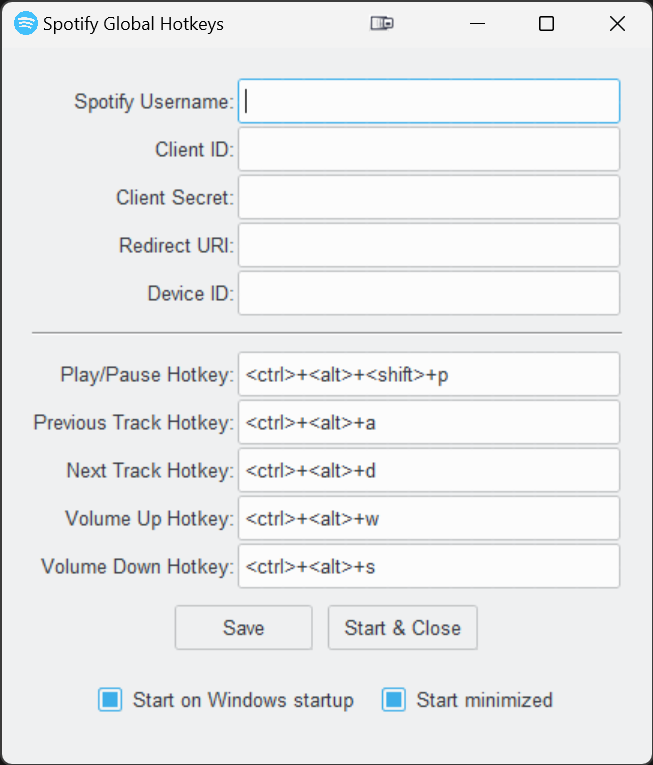
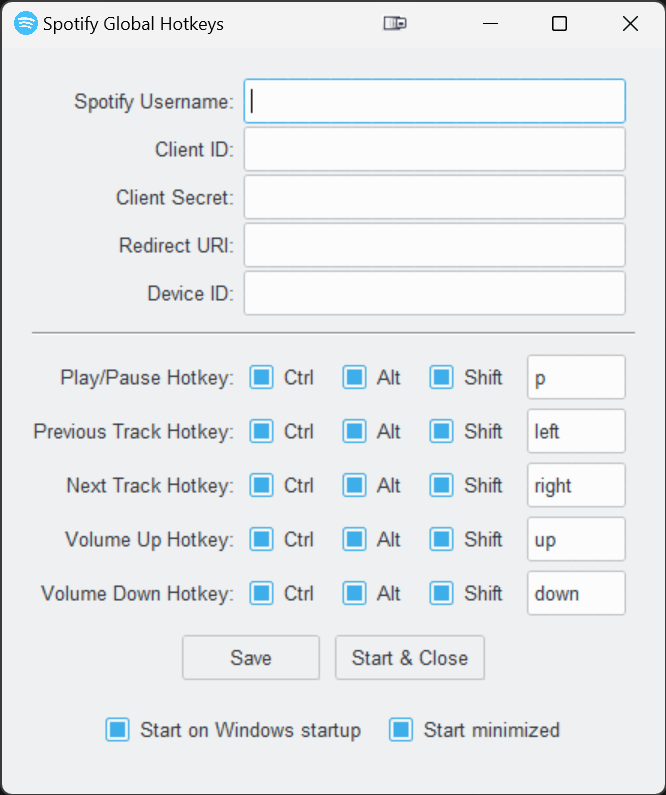
Switched from pynput to global-hotkeys module

diff --git a/SpotifyGlobalHotkeys/view.py b/SpotifyGlobalHotkeys/view.py
@@ -37,26 +37,6 @@ class SpotifyGlobalHotkeysView(object):
         self.SettingsWindow()
 
     def SettingsWindow(self):
-        def limit_entry_length(var, maxlen):
-            var.trace("w", lambda *args: enforce_max_length(var, maxlen))
-
-        def enforce_max_length(var, maxlen):
-            value = var.get()
-            if len(value) > maxlen:
-                var.set(value[:maxlen])
-                
-        def validate_alpha(char):
-            return char.isalpha() or char == ""
-
-        def limit_alpha_input(var):
-            var.trace("w", lambda *args: enforce_alpha_input(var))
-
-        def enforce_alpha_input(var):
-            value = var.get()
-            filtered_value = ''.join(filter(validate_alpha, value))
-            if value != filtered_value:
-                var.set(filtered_value)
-                
         def set_input_fields():
             self.app.SetStartup(self.app.startup_var.get())
             self.app.username = username_entry.get()
@@ -74,11 +54,11 @@ class SpotifyGlobalHotkeysView(object):
         def update_hotkey_entry(entry, modifiers_frame, ctrl_var, alt_var, shift_var):
             modifiers = []
             if ctrl_var.get():
-                modifiers.append('<ctrl>')
+                modifiers.append('control')
             if alt_var.get():
-                modifiers.append('<alt>')
+                modifiers.append('alt')
             if shift_var.get():
-                modifiers.append('<shift>')
+                modifiers.append('shift')
             key = entry.get().strip().lower()
             hotkey = '+'.join(modifiers + [key])
             return hotkey
@@ -107,8 +87,11 @@ class SpotifyGlobalHotkeysView(object):
                 return
             else:
                 root.destroy()
+                self.app.StopHotkeyListener()
                 if not self.menu.visible:
                     self.run()
+                else:
+                    self.app.StartHotkeyListener()
             
         # Create the GUI
         root = ThemedTk(theme='breeze')
@@ -153,7 +136,7 @@ class SpotifyGlobalHotkeysView(object):
         self.app.minimize_var = tk.BooleanVar()
         
         # Hotkey Area
-        width = 2
+        width = 8
         padding_x = 5
         padding_y = 2
         
@@ -221,21 +204,6 @@ class SpotifyGlobalHotkeysView(object):
         alt_volume_down_checkbox.grid(row=0, column=1, padx=padding_x, pady=padding_y)
         shift_volume_down_checkbox.grid(row=0, column=2, padx=padding_x, pady=padding_y)
         volume_down_entry.grid(row=0, column=4, padx=padding_x, pady=padding_y)
-        
-        # Limit entry lengths
-        max_length = 1
-        limit_entry_length(play_pause_var, max_length)
-        limit_entry_length(prev_track_var, max_length)
-        limit_entry_length(next_track_var, max_length)
-        limit_entry_length(volume_up_var, max_length)
-        limit_entry_length(volume_down_var, max_length)
-        
-        # Limit to alphas
-        limit_alpha_input(play_pause_var)
-        limit_alpha_input(prev_track_var)
-        limit_alpha_input(next_track_var)
-        limit_alpha_input(volume_up_var)
-        limit_alpha_input(volume_down_var)
 
         # Autofill entries
         def autofill_entry(entry, value, hotkey=False):
@@ -251,15 +219,15 @@ class SpotifyGlobalHotkeysView(object):
             modifiers = {'ctrl': False, 'alt': False, 'shift': False}
             key = ''
 
-            if '<ctrl>' in hotkey_str:
+            if 'control' in hotkey_str:
                 modifiers['ctrl'] = True
-                hotkey_str = hotkey_str.replace('<ctrl>', '')
-            if '<alt>' in hotkey_str:
+                hotkey_str = hotkey_str.replace('control', '')
+            if 'alt' in hotkey_str:
                 modifiers['alt'] = True
-                hotkey_str = hotkey_str.replace('<alt>', '')
-            if '<shift>' in hotkey_str:
+                hotkey_str = hotkey_str.replace('alt', '')
+            if 'shift' in hotkey_str:
                 modifiers['shift'] = True
-                hotkey_str = hotkey_str.replace('<shift>', '')
+                hotkey_str = hotkey_str.replace('shift', '')
             if '+' in hotkey_str:
                 hotkey_str = hotkey_str.replace('+', '')
 
@@ -270,7 +238,7 @@ class SpotifyGlobalHotkeysView(object):
         hotkey_entries = [play_pause_entry, prev_track_entry, next_track_entry, volume_up_entry, volume_down_entry]
         keys = ['username', 'client_id', 'client_secret', 'redirect_uri', 'device_id']  
         hotkey_keys = ['play/pause', 'prev_track', 'next_track', 'volume_up', 'volume_down']
-        hotkey_defaults = ['<ctrl>+<alt>+<shift>+p', '<ctrl>+<alt>+<shift>+a', '<ctrl>+<alt>+<shift>+d', '<ctrl>+<alt>+<shift>+w', '<ctrl>+<alt>+<shift>+s']
+        hotkey_defaults = ['control+alt+shift+p', 'control+alt+shift+left', 'control+alt+shift+right', 'control+alt+shift+up', 'control+alt+shift+down']
         
         ctrl_vars = [ctrl_play_pause_var, ctrl_prev_track_var, ctrl_next_track_var, ctrl_volume_up_var, ctrl_volume_down_var]
         alt_vars = [alt_play_pause_var, alt_prev_track_var, alt_next_track_var, alt_volume_up_var, alt_volume_down_var]
@@ -346,5 +314,5 @@ class SpotifyGlobalHotkeysView(object):
     
     def run(self):
         self.app.UpdateStartupRegistry()
-        self.app.HotkeyListener()
+        self.app.StartHotkeyListener()
         self.menu.run()

diff --git a/SpotifyGlobalHotkeys/app.py b/SpotifyGlobalHotkeys/app.py
@@ -11,7 +11,7 @@ import json.decoder
 import winreg as reg
 import tkinter.messagebox as messagebox
 from spotipy.oauth2 import SpotifyOAuth
-from pynput import keyboard
+from global_hotkeys import *
 
 class SpotifyGlobalHotkeysApp(object):
     def __init__(self):
@@ -258,26 +258,39 @@ class SpotifyGlobalHotkeysApp(object):
                     reg.DeleteValue(reg_key, app_name)
                 except FileNotFoundError:
                     pass
-    
-    def HotkeyListener(self):
-        print('Listening to hotkeys...')
-        
-        def with_cooldown(func):
-            last_called = [0]
-            def wrapper(*args, **kwargs):
-                if time.time() - last_called[0] > 0.3:  # 0.3 seconds cooldown
-                    func(*args, **kwargs)
-                    last_called[0] = time.time()
-            return wrapper
 
-        listener = keyboard.GlobalHotKeys({
-            self.hotkeys['play/pause']: with_cooldown(lambda: self.PlayPause()),
-            self.hotkeys['prev_track']: with_cooldown(lambda: self.PrevNext('previous')),
-            self.hotkeys['next_track']: with_cooldown(lambda: self.PrevNext('next')),
-            self.hotkeys['volume_up']: with_cooldown(lambda: self.AdjustVolume(5)),
-            self.hotkeys['volume_down']: with_cooldown(lambda: self.AdjustVolume(-5))
-        })
-        listener.start()
+    def StopHotkeyListener(self):
+        stop_checking_hotkeys()
+        clear_hotkeys()
+    
+    def StartHotkeyListener(self):
+        print('Listening to hotkeys...')
+
+        # Our keybinding event handlers.
+        def play_pause():
+            self.PlayPause()
+        def previous():
+            self.PrevNext('previous')
+        def next():
+            self.PrevNext('next')
+        def volume_up():
+            self.AdjustVolume(5)
+        def volume_down():
+            self.AdjustVolume(-5)
+
+        bindings = [
+            [self.hotkeys['play/pause'].split('+'), None, play_pause],
+            [self.hotkeys['prev_track'].split('+'), None, previous],
+            [self.hotkeys['next_track'].split('+'), None, next],
+            [self.hotkeys['volume_up'].split('+'), None, volume_up],
+            [self.hotkeys['volume_down'].split('+'), None, volume_down]
+        ]
+
+        # Register all of our keybindings
+        register_hotkeys(bindings)
+
+        # Finally, start listening for keypresses
+        start_checking_hotkeys()
             
     def SaveConfig(self):
         print('Saving config')

diff --git a/SpotifyGlobalHotkeys/main.py b/SpotifyGlobalHotkeys/main.py
@@ -37,7 +37,7 @@ if __name__ == '__main__':
             
             for key, default_value in [('username', ''), ('client_id', ''), ('client_secret', ''), ('redirect_uri', ''), ('device_id', '')]:
                 setattr(app, key, config.get(key, default_value))
-            for key, default_value in [('play/pause', '<ctrl>+<alt>+<shift>+p'), ('prev_track', '<ctrl>+<alt>+<shift>+a'), ('next_track', '<ctrl>+<alt>+<shift>+d'), ('volume_up', '<ctrl>+<alt>+<shift>+w'), ('volume_down', '<ctrl>+<alt>+<shift>+s')]:
+            for key, default_value in [('play/pause', 'control+alt+shift+p'), ('prev_track', 'control+alt+shift+left'), ('next_track', 'control+alt+shift+right'), ('volume_up', 'control+alt+shift+up'), ('volume_down', 'control+alt+shift+down')]:
                 app.hotkeys[key] = hotkeys.get(key, default_value)
         
         # If minimize is True, do not open the Settings window
